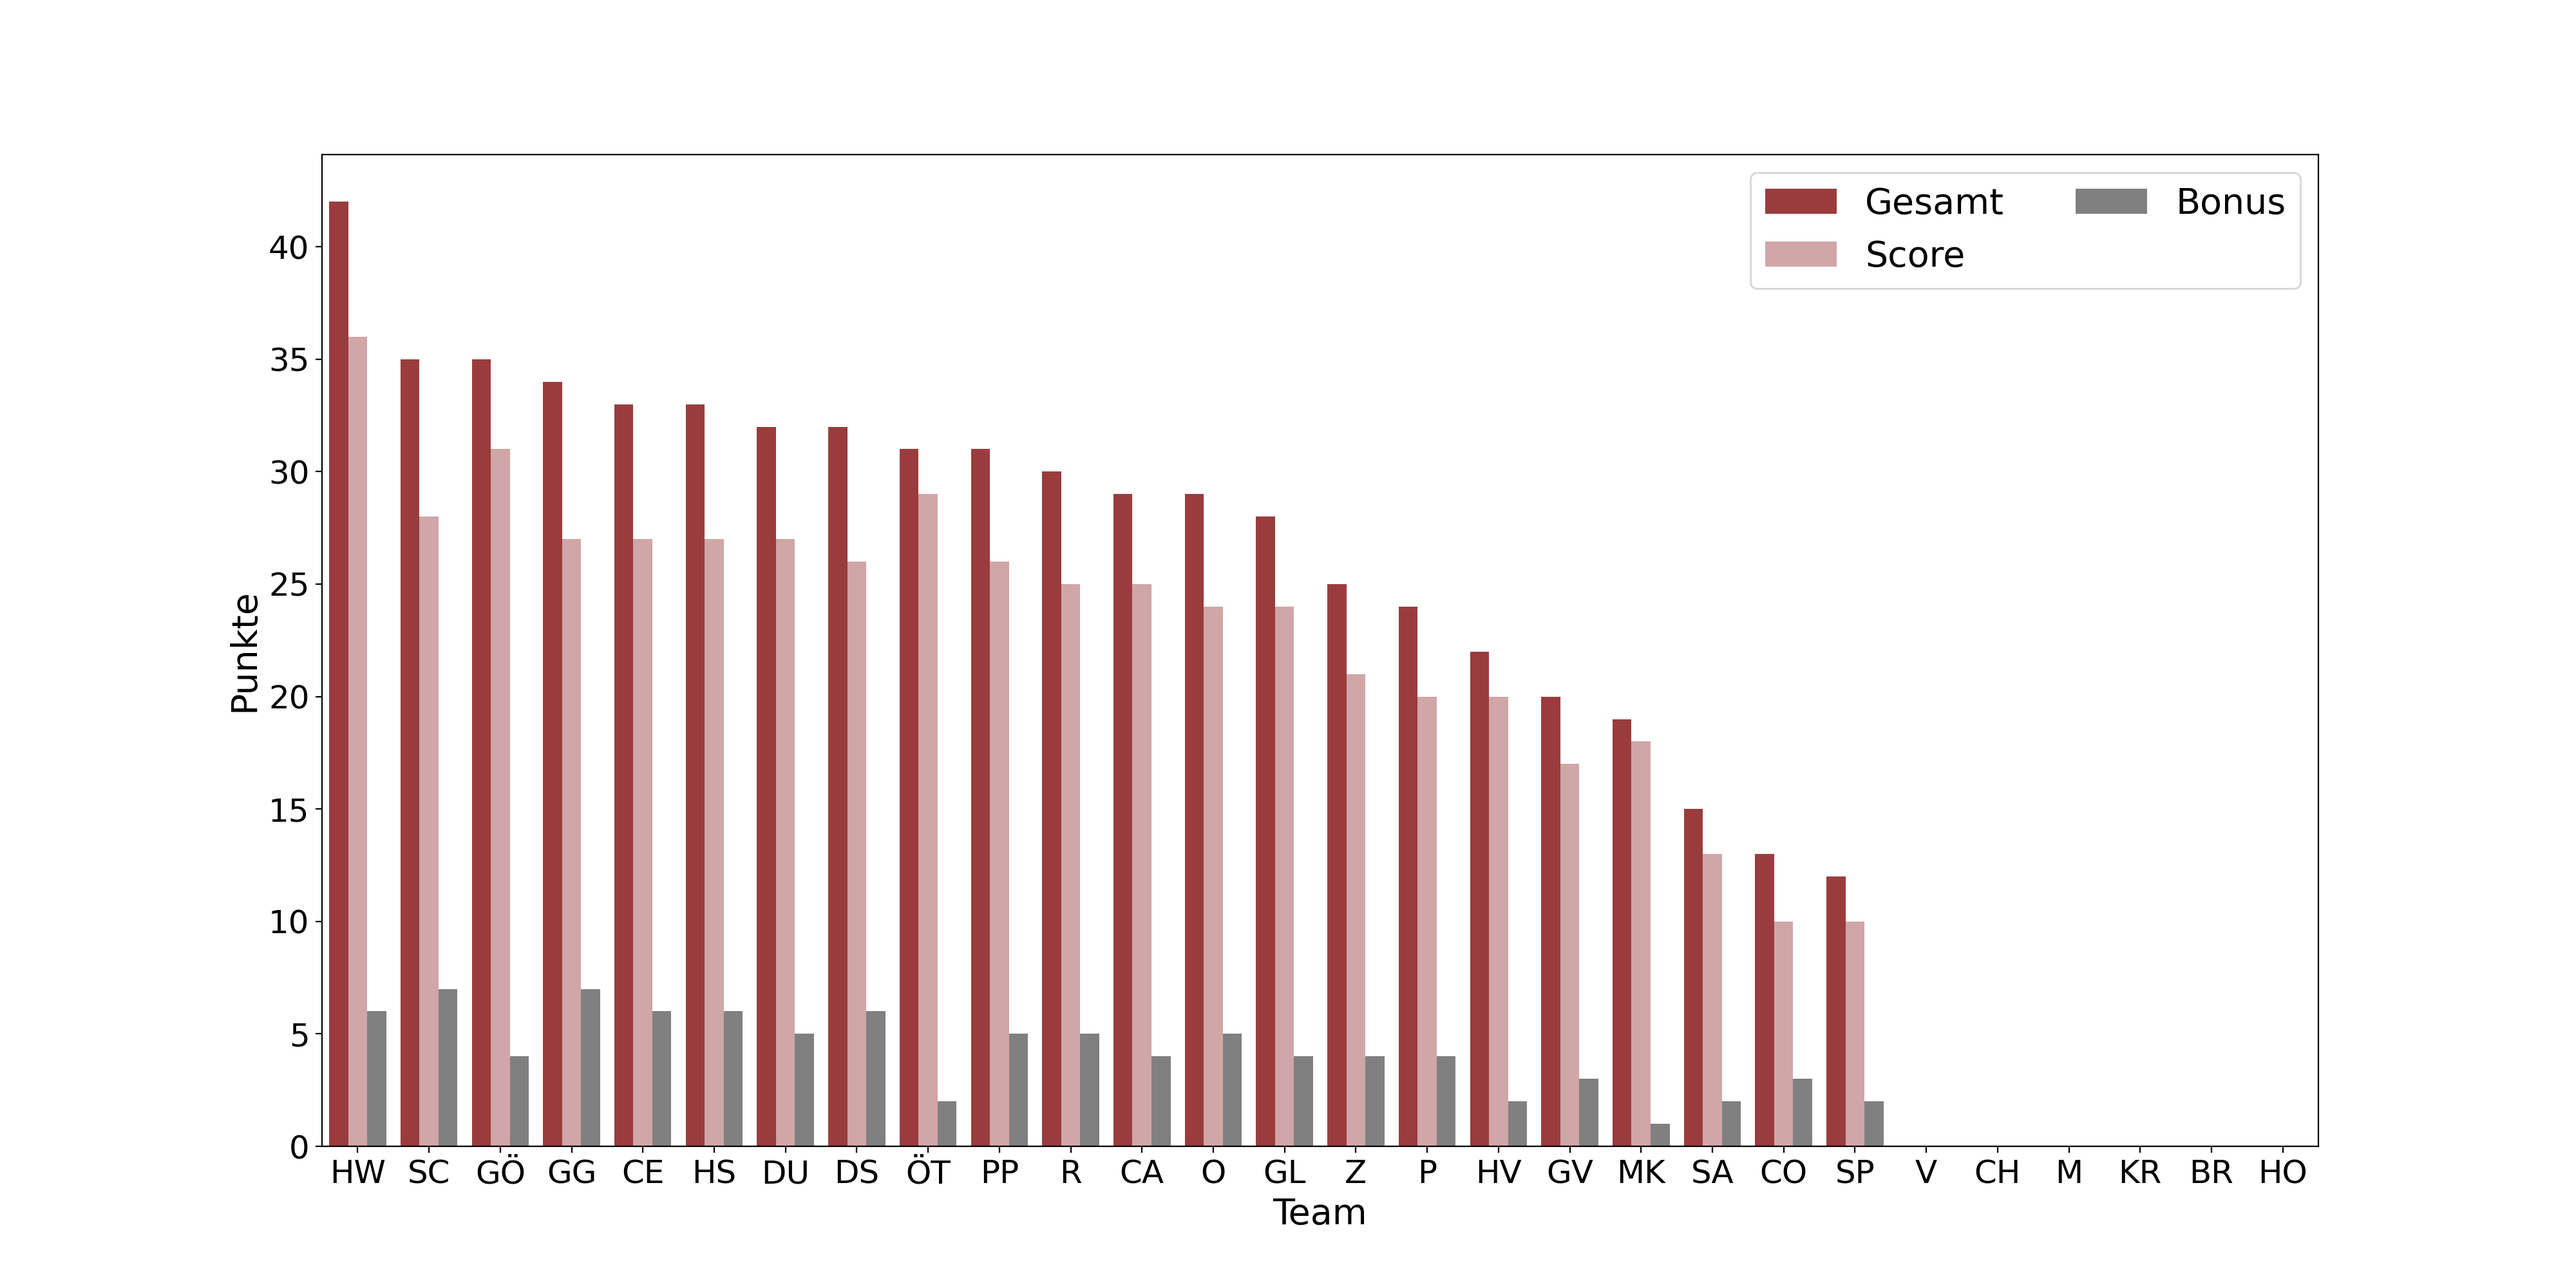
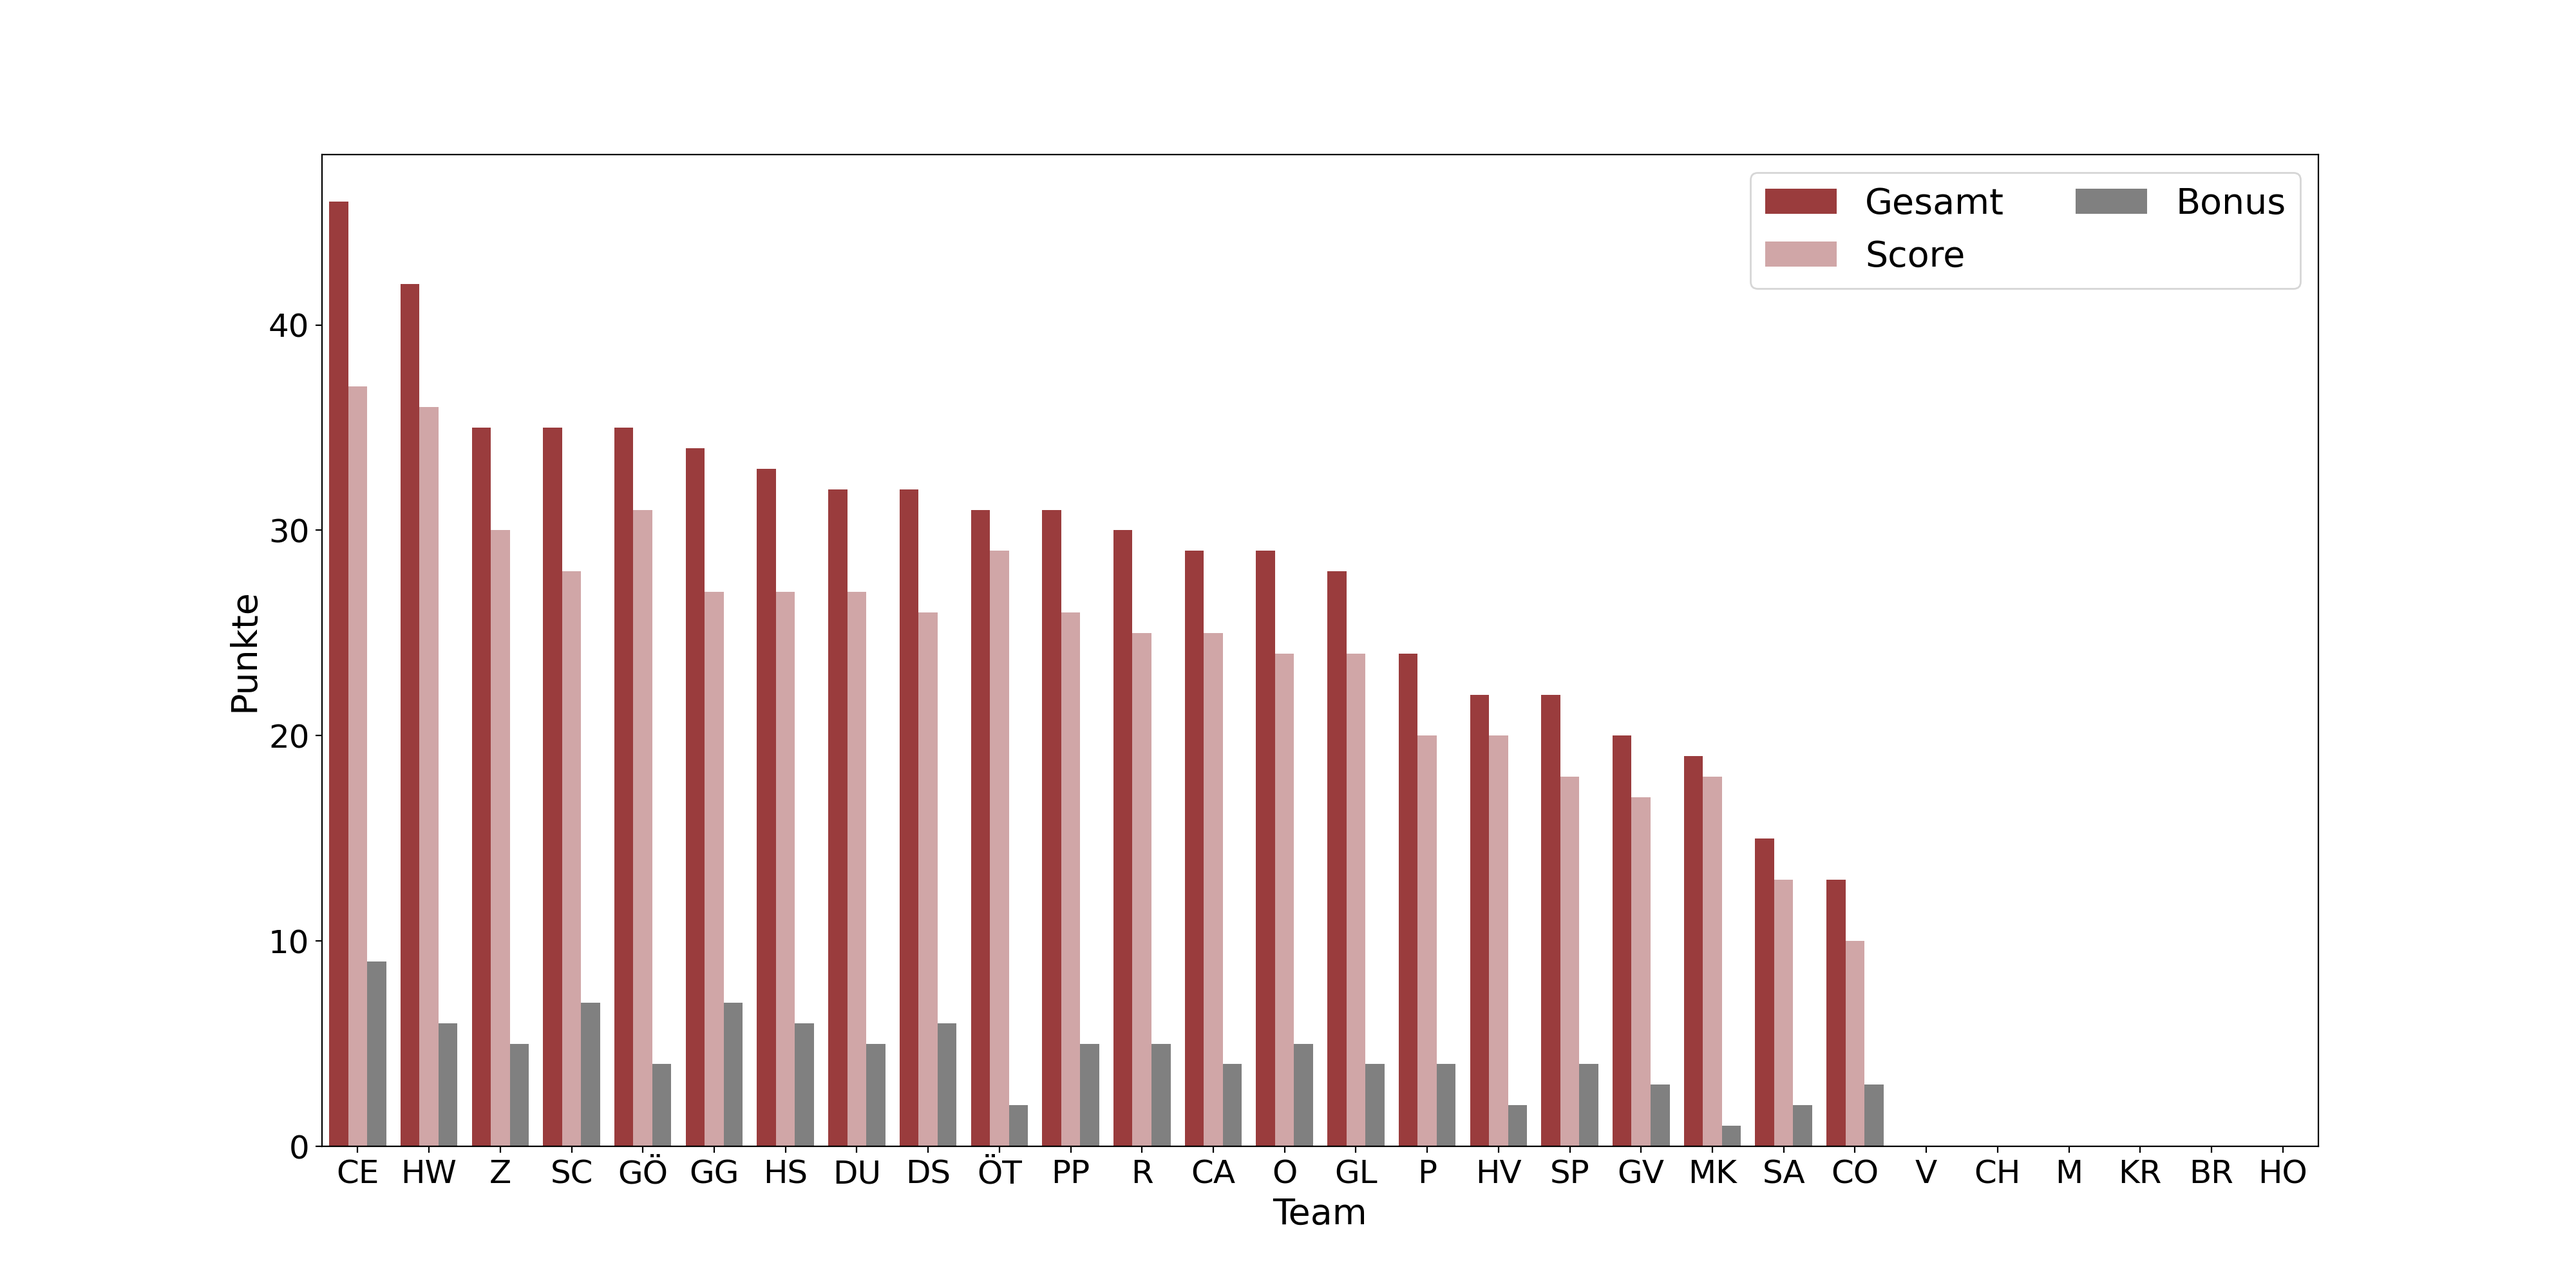
update

diff --git a/css/style_teams.css b/css/style_teams.css
@@ -12,7 +12,7 @@
             background-color: #bde0fe
         }
         .GL {
-            order: 13
+            order: 14
         }
         .GL .team__all-points::after{
             content: "28"
@@ -31,7 +31,7 @@
             background-color: #daeaf6
         }
         .O {
-            order: 12
+            order: 13
         }
         .O .team__all-points::after{ 
             content: " 29"
@@ -39,22 +39,22 @@
 
 
         .Z .team__score::after {
-            content: "21/120"
+            content: "30/120"
         }
         .Z .team__stations::after {
-            content: "4/12"
+            content: "5/12"
         }
         .Z .team__bonus::after {
-            content: "4/36"
+            content: "5/36"
         }
         .Z .team__logo {
             background-color: #9bd0b7
         }
         .Z {
-            order: 14
+            order: 2
         }
         .Z .team__all-points::after{
-            content: "25"
+            content: "35"
         }
 
 
@@ -92,7 +92,7 @@
             background-color: #dab894
         }
         .DS {
-            order: 7
+            order: 8
         }
         .DS .team__all-points::after{
             content: "32"
@@ -112,7 +112,7 @@
             background-color: #d6eadf
         }
         .DU {
-            order: 6
+            order: 7
         }
         .DU .team__all-points::after{
             content: "32"
@@ -133,7 +133,7 @@
             background-color: #957DAD
         }
         .OT {
-            order: 8
+            order: 9
         }
         .OT .team__all-points::after{
             content: " 31"
@@ -154,7 +154,7 @@
             background-color: #E0BBE4
         }
         .GG {
-            order: 3
+            order: 5
         }
         .GG .team__all-points::after{
              content: "34"
@@ -194,7 +194,7 @@
             background-color: #c2d5a8
         }
         .GO {
-            order: 2
+            order: 4
         }
         .GO .team__all-points::after{
             content: "35"
@@ -214,7 +214,7 @@
             background-color: #ffdfdc
         }
         .GV {
-            order: 17
+            order: 18
         }
         .GV .team__all-points::after{
             content: "20"
@@ -234,7 +234,7 @@
             background-color: #9d8189
         }
         .SC {
-            order: 1
+            order: 3
         }
         .SC .team__all-points::after{
             content: "35"
@@ -274,7 +274,7 @@
             background-color: #9cadce
         }
         .MK {
-            order: 18
+            order: 19
         }
         .MK .team__all-points::after{
             content: "19"
@@ -294,7 +294,7 @@
             background-color: #a2d2ff
         }
         .SA {
-            order: 19
+            order: 20
         }
         .SA .team__all-points::after{
             content: "15"
@@ -334,7 +334,7 @@
             background-color: #ffafcc
         }
         .R {
-            order: 10
+            order: 11
         }
         .R .team__all-points::after{
             content: "30"
@@ -355,7 +355,7 @@
             background-color: #efe9ae
         }
         .HS {
-            order: 5
+            order: 6
         }
         .HS .team__all-points::after{
             content: "33"
@@ -364,22 +364,22 @@
         
 
         .CE .team__score::after {
-            content: "27/120"
+            content: "37/120"
         }
         .CE .team__stations::after {
-            content: "4/12"
+            content: "5/12"
         }
         .CE .team__bonus::after {
-            content: "6/36"
+            content: "9/36"
         }
         .CE .team__logo {
             background-color: #ff928b
         }
         .CE {
-            order: 4
+            order: 0
         }
         .CE .team__all-points::after{
-            content: "33"
+            content: "46"
         }
 
 
@@ -396,7 +396,7 @@
             background-color: #7ec4cf
         }
         .PP {
-            order: 9
+            order: 10
         }
         .PP .team__all-points::after{
             content: "31"
@@ -416,7 +416,7 @@
             background-color: #758184
         }
         .HW {
-            order: 0
+            order: 1
         }
         .HW .team__all-points::after{
             content: "42"
@@ -456,7 +456,7 @@
             background-color: #ff6663
         }
         .CO {
-            order: 20
+            order: 21
         }
         .CO .team__all-points::after{
             content: "13"
@@ -516,29 +516,29 @@
             background-color: #ffc8dd
         }
         .CA {
-            order: 11
+            order: 12
         }
         .CA .team__all-points::after{
             content: "29"
         }
 
         .SP .team__score::after {
-            content: "10/120"
+            content: "18/120"
         }
         .SP .team__stations::after {
-            content: "2/12"
+            content: "3/12"
         }
         .SP .team__bonus::after {
-            content: "2/36"
+            content: "4/36"
         }
         .SP .team__logo {
             background-color: #f6bc66
         }
         .SP {
-            order: 21
+            order: 17
         }
         .SP .team__all-points::after{
-            content: "12"
+            content: "22"
         }
 
 

diff --git a/css/style_station.css b/css/style_station.css
@@ -4,7 +4,7 @@
         }
         
         .B .station__teams::after {
-            content: "14/28"
+            content: "15/28"
         }
 
         .C .station__teams::after {
@@ -16,7 +16,7 @@
         }
 
         .E .station__teams::after {
-            content: "12/28"
+            content: "13/28"
         }
 
         .F .station__teams::after {
@@ -24,7 +24,7 @@
         }
 
         .G .station__teams::after {
-            content: "7/28"
+            content: "8/28"
         }
 
         .H .station__teams::after {
